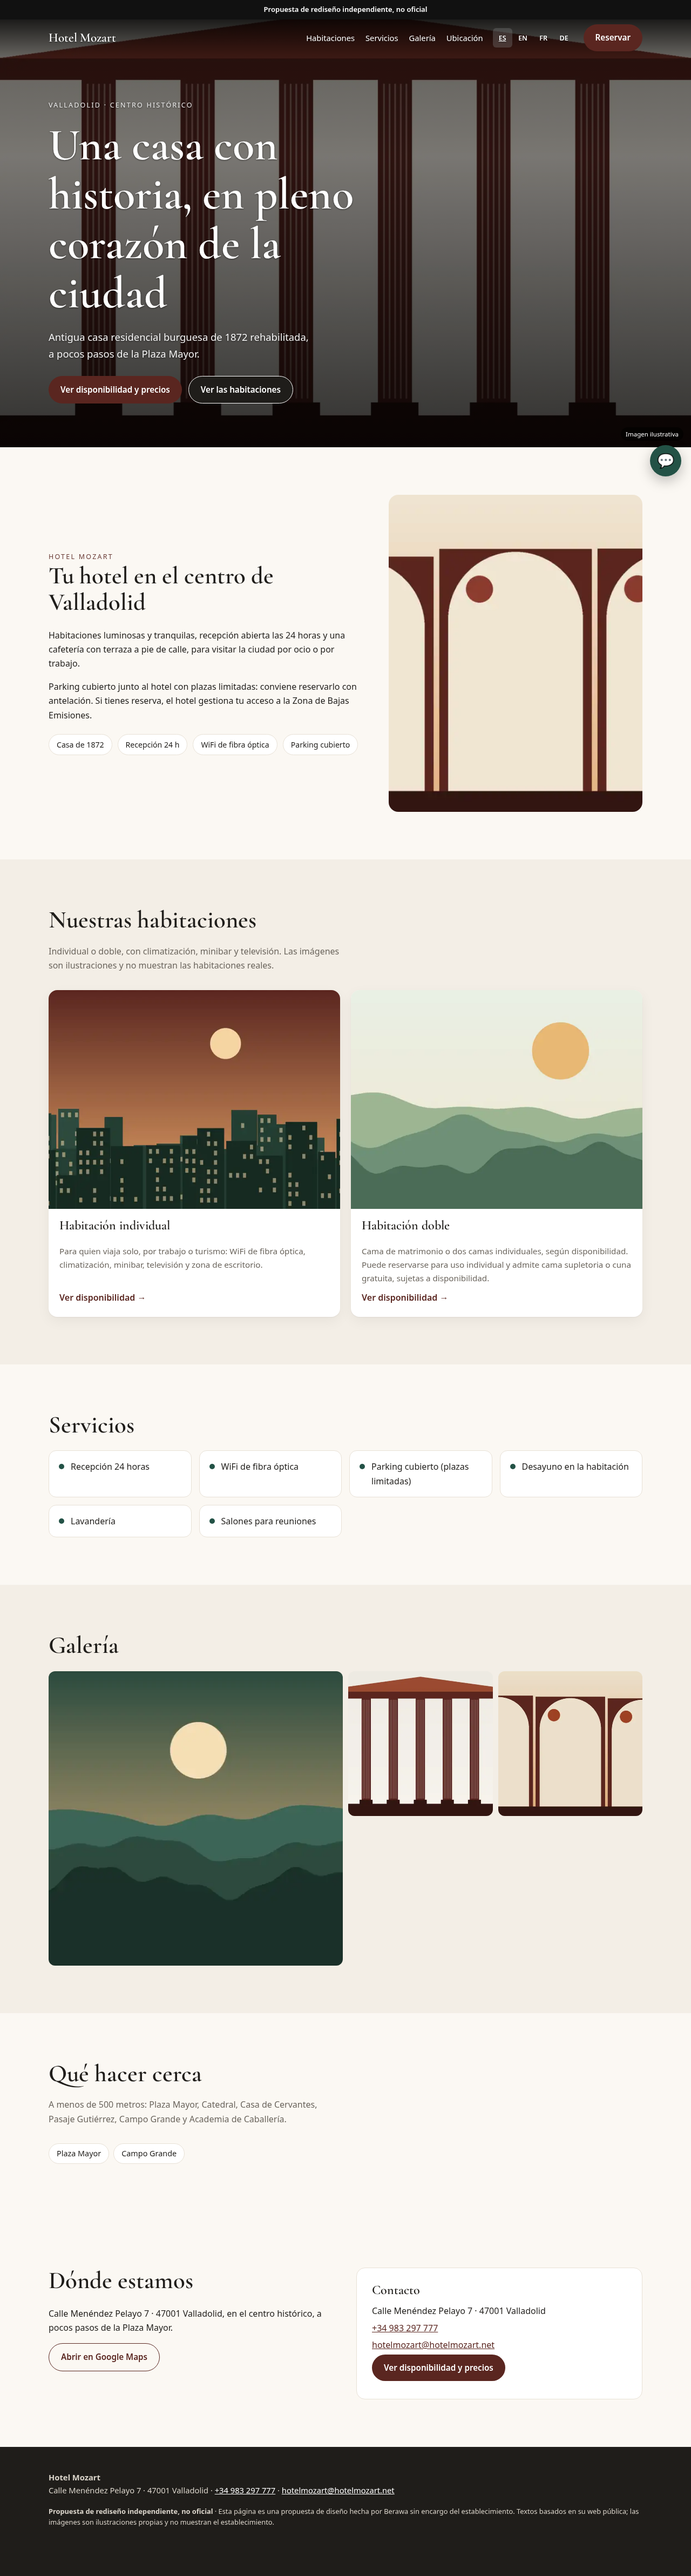
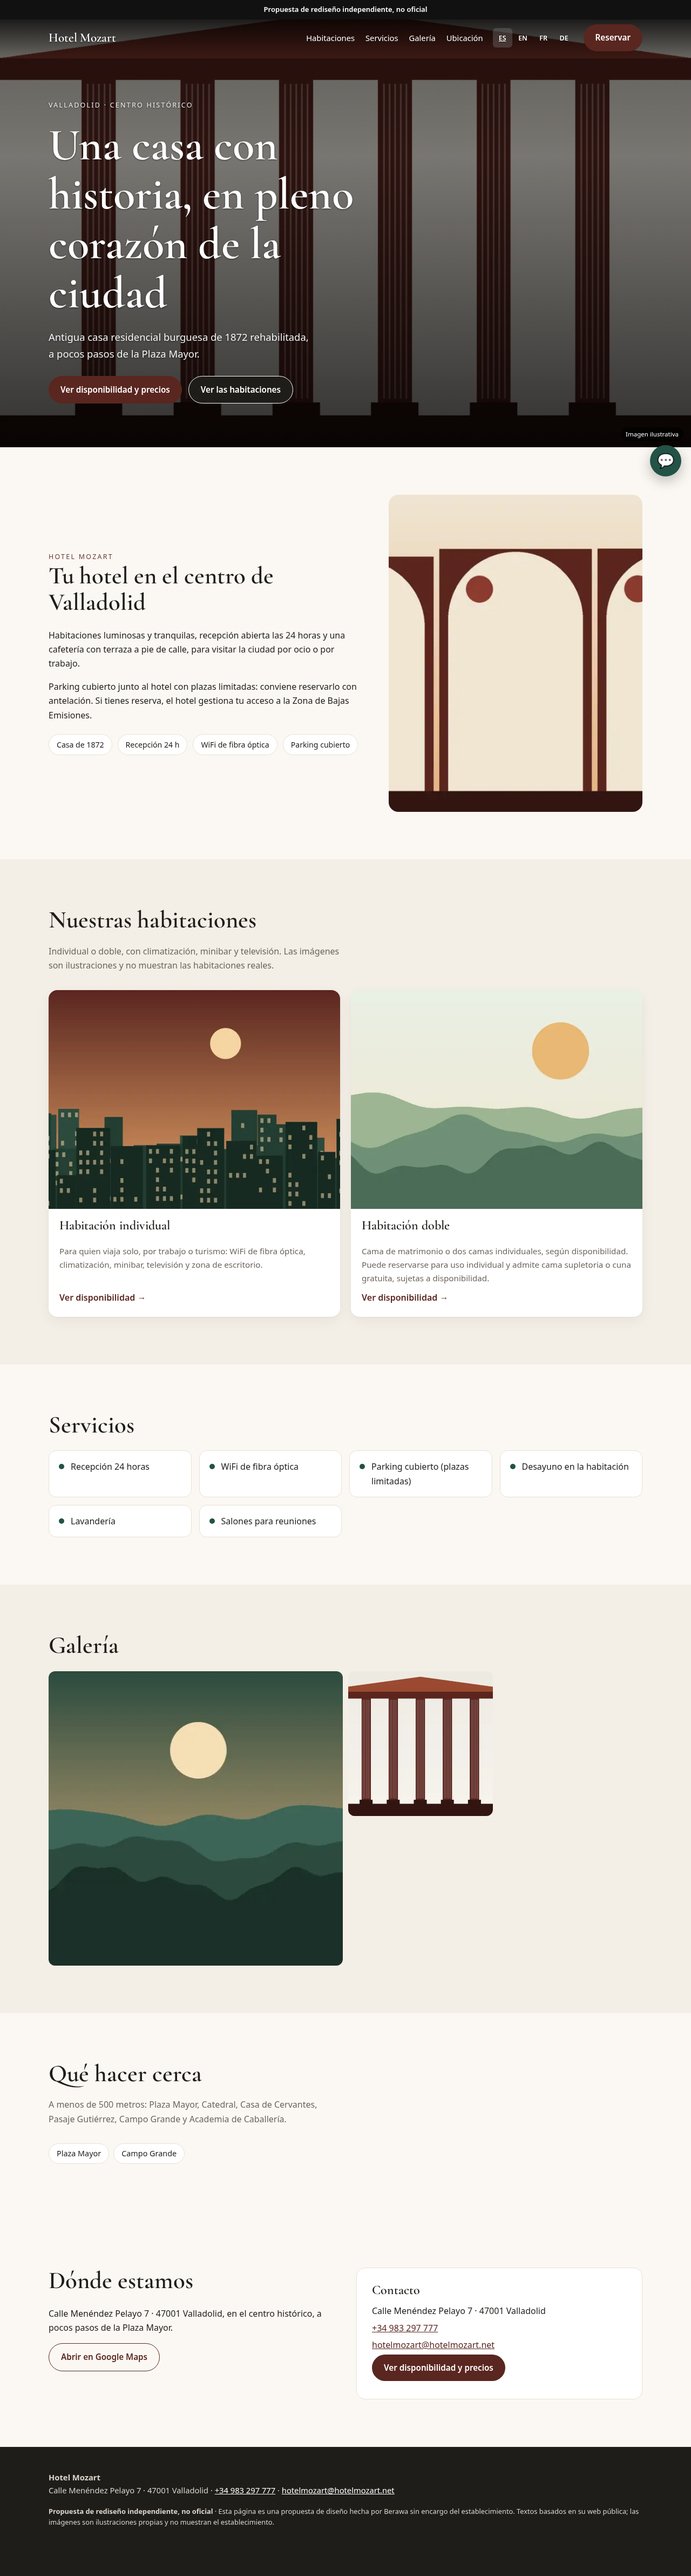
docs: informe QA Grok (A1-A11, C01-C16, Lighthouse) y evidencias

Changed region(s): [[0.7188, 0.6249, 0.9375, 0.7186]]

diff --git a/berawa/QA-GROK.md b/berawa/QA-GROK.md
@@ -2,9 +2,9 @@
 
 Autocontrol de fabricación (G04, A1–A11) y checklist C01–C16 (`docs/BERAWA-QA-CHECKLIST.md`) pasados por Grok antes del PR. **No es una auditoría independiente ni una aprobación**: Codex solo audita una muestra y nada se publica ni se envía sin visto bueno de Juan.
 
-- Rama: `demo/hotel-mozart-valladolid` · HEAD de las pruebas: `a3d7460daa24f6a988091d7e2e0da1f61d18870c` · fecha: 30/10/2026 06:50 (Europe/Madrid)
+- Rama: `demo/hotel-mozart-valladolid` · HEAD de las pruebas: `c5ae012bd2c8fab93754fd3dc041f4664c083696` · fecha: 30/10/2026 07:04 (Europe/Madrid)
 - Entorno: Chromium de Playwright (instalado por `playwright install chromium` en el clon limpio), axe-core 4.14.0, Lighthouse 13.6.0 (3 pasadas, mediana).
-- Resultado: **QA_GROK_FAIL**
+- Resultado: **QA_GROK_PASS**
 - Negocio medido: Maps 4.3 (LEIDA, coincide tel, web) · web original: LCP > 4 s · titular MOZART, C.B. (persona jurídica, sin cadena).
 
 ## Controles A1–A11
@@ -20,12 +20,12 @@ Autocontrol de fabricación (G04, A1–A11) y checklist C01–C16 (`docs/BERAWA-
 | A8 | Trazabilidad: un commit por bloque; scripts y evidencias commiteados; cambios V1.0 aparte | **CUMPLE** | git log de la rama; berawa/V1.0-CAMBIOS.md |
 | A9 | Precios del chatbot: REGLA DE PRECIOS: CUMPLE | **CUMPLE** | qa/check_kb.txt, qa/check_kb-zip.txt |
 | A10 | Reproducibilidad: clon limpio + dependencias documentadas + run_checks --file en verde; rg /workspace vacío | **CUMPLE** | qa/clon-limpio.txt, qa/rg-workspace.txt |
-| A11 | git diff --check main...HEAD sin salida | **NO** | qa/git-diff-check.txt |
+| A11 | git diff --check main...HEAD sin salida | **CUMPLE** | qa/git-diff-check.txt |
 
 ## Checklist C01–C16
 | Código | Control | Resultado | Evidencia |
 |---|---|---|---|
-| C01 | Repositorio y SHA | **CUMPLE** | HEAD del clon limpio = a3d7460daa24f6a988091d7e2e0da1f61d18870c (el SHA final del PR es el del commit que añade este informe) |
+| C01 | Repositorio y SHA | **CUMPLE** | HEAD del clon limpio = c5ae012bd2c8fab93754fd3dc041f4664c083696 (el SHA final del PR es el del commit que añade este informe) |
 | C02 | Identidad y fuentes | **CUMPLE** | nombre, teléfono, dirección y datos comerciales con cita literal en berawa/knowledge.json; titular persona jurídica sin cadena y nota de Maps en berawa/evidence/captacion.json |
 | C03 | Licencias | **CUMPLE** | asset_manifest.json: ilustraciones propias generadas (origin=generated) y fuente Cormorant OFL; ninguna imagen, logo ni vídeo del negocio |
 | C04 | Diseño personalizado y no suplantador | **CUMPLE** | paleta e ilustraciones propias, aviso «Propuesta de rediseño independiente, no oficial» arriba y en el pie, sin logo ni marca del negocio; revisión visual de qa/capturas/ |
@@ -53,4 +53,4 @@ SEO < 90 por el `noindex,nofollow` y el `robots.txt` con `Disallow: /` (is-crawl
 ## Límites
 - No probado en Safari ni Firefox ni con lector de pantalla.
 - Las imágenes son ilustraciones propias: no muestran el establecimiento y así se rotulan.
-- Tiempo del autocontrol automático (ZIP, clon limpio, Lighthouse, capturas): 8.2 min.
+- Tiempo del autocontrol automático (ZIP, clon limpio, Lighthouse, capturas): 6.9 min.
